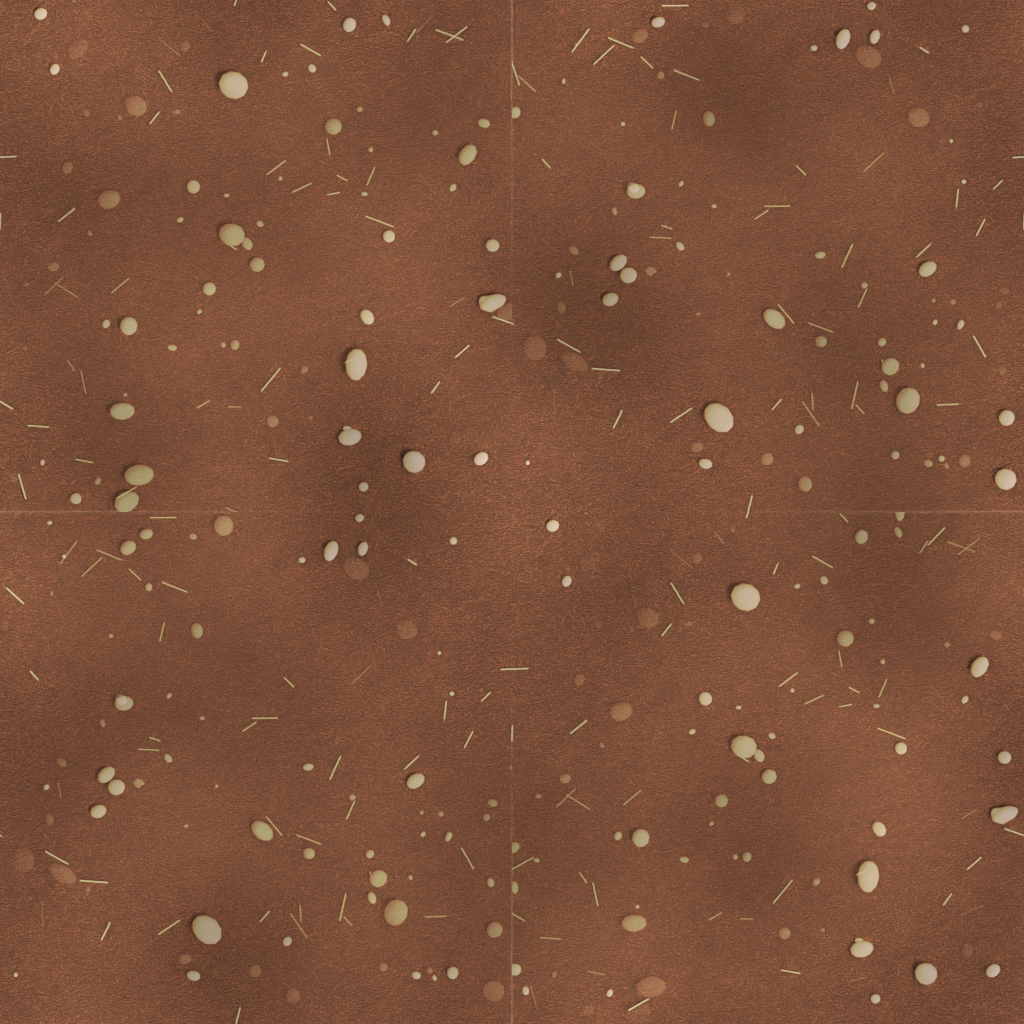
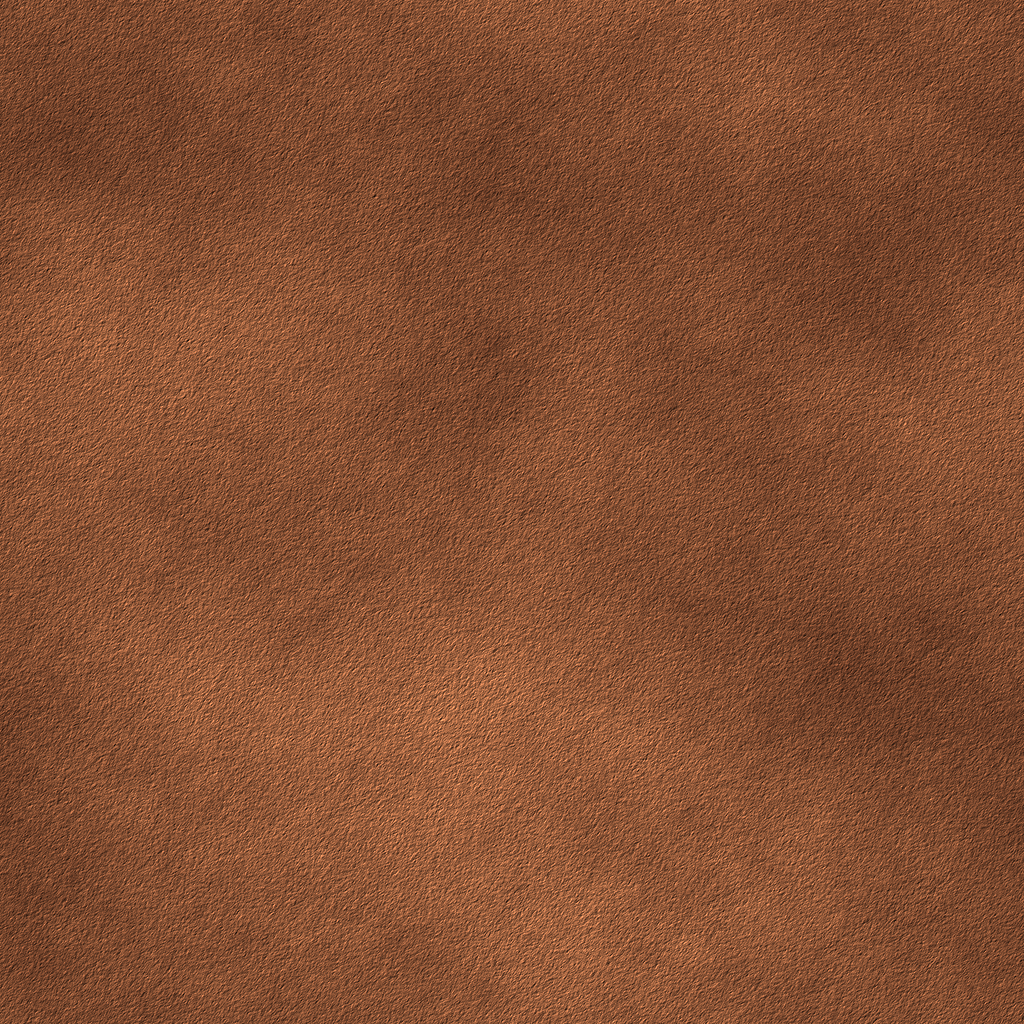
Volante que gira (nodo steer), volante separado en Aventador y F1, cuello oculto en primera persona, sin piedras 3D y tierra pura
Claude-Session: https://claude.ai/code/session_01R8xWcuFiEqsWX9VaB9ebpN

diff --git a/tools/blender/make_textures.py b/tools/blender/make_textures.py
@@ -229,14 +229,14 @@ def tex_asfalto(path, res=1024):
     render(path)
     tileify(path)
 
-def tex_tierra(path, res=1024, red=False):
+def tex_tierra(path, res=1024, red=False, pure=False):
     sc = reset((res, res))
     world_color((0.7, 0.72, 0.8), 0.5)
     area = 3.0
     m, nt = mat("tierra")
     tc = nt.nodes.new("ShaderNodeTexCoord")
     nz1 = noise(nt, 3.0, 8, 0.65, tc.outputs["Object"])
-    nz2 = noise(nt, 140.0 if red else 45.0, 5, 0.6, tc.outputs["Object"])
+    nz2 = noise(nt, 90.0 if red else 45.0, 6, 0.65, tc.outputs["Object"])
     vor = voronoi(nt, 330 if red else 120, tc.outputs["Object"])
     if red: # tierra roja de camino rural: grano fino, ocre y anaranjada
         base = ramp(nt, [(0.0, (0.40, 0.13, 0.045, 1)), (0.5, (0.62, 0.23, 0.085, 1)), (1.0, (0.80, 0.36, 0.14, 1))])
@@ -272,7 +272,7 @@ def tex_tierra(path, res=1024, red=False):
     snt.links.new(sn.outputs["Fac"], sb.inputs["Height"])
     snt.links.new(sb.outputs[0], sp.inputs["Normal"])
     bm = bmesh.new()
-    for i in range(150 if red else 230):
+    for i in range(0 if pure else (150 if red else 230)):
         r = rnd.choice([0.006, 0.008, 0.01, 0.014, 0.02, 0.03] if red else [0.012, 0.016, 0.02, 0.025, 0.03, 0.04, 0.05, 0.07]) * rnd.uniform(0.8, 1.2)
         x, y = rnd.uniform(-area / 2, area / 2), rnd.uniform(-area / 2, area / 2)
         mt = Matrix.Translation((x, y, r * 0.3)) @ Matrix.Rotation(rnd.uniform(0, 6.28), 4, "Z") @ Matrix.Diagonal((r * rnd.uniform(1.0, 1.5), r * rnd.uniform(0.8, 1.2), r * 0.7, 1))
@@ -285,7 +285,7 @@ def tex_tierra(path, res=1024, red=False):
     so = bpy.data.objects.new("stones", me)
     bpy.context.collection.objects.link(so)
     so.data.materials.append(stone_m)
-    if red:  # pajitas secas tiradas y terrones: rayitas claras
+    if red and not pure:  # pajitas secas tiradas y terrones: rayitas claras
         straw_m, stn = mat("paja")
         spp = principled(stn, (0.72, 0.58, 0.26, 1), 0.9)
         bm2 = bmesh.new()
@@ -331,6 +331,42 @@ def tex_tierra(path, res=1024, red=False):
         out = gray + (out - gray) * 0.78
         out = np.clip(out, 0, 255)
         Image.fromarray(out.astype(np.uint8)).save(path)
+
+def _periodic_noise(n, rng, beta, cutoff=None):
+    """ruido repetible (periódico) con espectro 1/f^beta: no puede tener costuras"""
+    f = np.fft.fftfreq(n)[:, None] ** 2 + np.fft.fftfreq(n)[None, :] ** 2
+    f[0, 0] = 1.0
+    amp = 1.0 / (f ** (beta / 2.0))
+    amp[0, 0] = 0.0
+    if cutoff:
+        amp = amp * np.exp(-f / (cutoff ** 2))
+    z = np.fft.ifft2(np.fft.fft2(rng.standard_normal((n, n))) * amp).real
+    z = (z - z.mean()) / (z.std() + 1e-9)
+    return z
+
+def tex_tierra_pura(path, res=1024, seed=11):
+    """tierra de camino rural, SIN piedras ni pajas: grano fino, terroncitos chicos y apenas manchas de humedad. Se hace con ruido periódico (sin costuras)
+    y relieve iluminado de costado; el color medio sale de las fotos de referencia (rojiza, ocre, algo apagada)."""
+    from PIL import Image
+    rng = np.random.default_rng(seed)
+    n = res
+    low = _periodic_noise(n, rng, 2.2)  # manchas muy suaves (humedad / tierra más clara)
+    mid = _periodic_noise(n, rng, 1.3)  # terrones
+    fine = _periodic_noise(n, rng, 0.6)  # grano
+    speck = _periodic_noise(n, rng, 0.0)  # granito
+    h = 0.55 * mid + 0.9 * fine + 0.5 * speck  # relieve
+    # relieve iluminado de costado (luz desde arriba a la izquierda)
+    dx = np.roll(h, -1, axis=1) - np.roll(h, 1, axis=1)
+    dy = np.roll(h, -1, axis=0) - np.roll(h, 1, axis=0)
+    shade = 1.0 + 0.16 * (-dx * 0.7 - dy * 0.7)
+    dark = np.array([104.0, 56.0, 33.0])
+    light = np.array([172.0, 102.0, 62.0])
+    t = np.clip(0.5 + 0.17 * low + 0.10 * mid + 0.07 * fine, 0, 1)[:, :, None]
+    col = dark * (1 - t) + light * t
+    col = col * shade[:, :, None] * (1.0 + 0.05 * speck[:, :, None])
+    gray = col.mean(axis=2, keepdims=True)
+    col = gray + (col - gray) * 0.9
+    Image.fromarray(np.clip(col, 0, 255).astype(np.uint8)).save(path)
 
 def tex_pasto(path, res=1024):
     sc = reset((res, res))
@@ -1070,7 +1106,7 @@ def main():
     jobs = {
         "asfalto": lambda: tex_asfalto(P("asfalto.png")),
         "tierra": lambda: tex_tierra(P("tierra.png")),
-        "tierra_roja": lambda: tex_tierra(P("tierra_roja.png"), 1024, True),
+        "tierra_roja": lambda: tex_tierra_pura(P("tierra_roja.png")),
         "pasto": lambda: tex_pasto(P("pasto.png")),
         "hormigon": lambda: tex_hormigon(P("hormigon.png")),
         "carton": lambda: tex_carton(P("carton.png")),

diff --git a/docs/ESTADO.md b/docs/ESTADO.md
@@ -64,3 +64,7 @@
 - **Autos**: las mallas fijas y opacas se unen por material (`CarVisual._merge_static`: de 175 a 158 dibujos en el CLS, de 138 a 111 en el RX-3; captura idéntica con y sin unión) y el motor / piso / escape del CLS y el piso del RX-3 se esconden hasta que el capó se abre o cae, o el auto va muy inclinado. El F1, el Aventador y la Ranger casi no ganan: casi todo es de piezas móviles, ruedas y transparencias.
 - Pruebas de ayuda nuevas: `tests/world_count.gd`, `tests/car_merge_test.gd`, `tests/car_tree.gd`, `tests/lot_breakdown.gd` y la opción `--arc=<m>` de `play.gd` para largar en cualquier punto del circuito.
 - **Estacionamiento**: lo que más pesa son los 9 autos estacionados (394 mil triángulos, ~140 dibujos cada uno); ganan lo de la unión de mallas. Sin medir en el teléfono.
+
+## Séptima tanda (23/11/2026): volante que gira, tierra pura, sin piedras 3D
+- **Volante (pedido 3 veces)**: la causa era que Godot le saca el sufijo «_wheel» a los nodos al importar y el volante llegaba como `steer`, pero el código buscaba `steer_wheel`: **no giraba en ningún auto**. Ahora se busca `steer`. El Aventador y el McLaren F1 no traen el volante como pieza (viene pegado al interior): se separa por geometría al cargar (`CarVisual._extract_steer`; en el F1 el centro del JSON estaba a ~15 cm del volante real y se recalcula con los materiales «steer»). Comprobado con capturas con el volante a fondo (`--steer=1.0 --cam=0`): el aro gira junto con las manos en Ranger, Aventador y F1. También: en primera persona se esconde el cuello (en el Aventador un globo de piel tapaba toda la pantalla).
+- **Camino de tierra**: sin piedras 3D; textura nueva de **tierra pura** (`tierra_roja.png`, sin piedritas ni pajas, ruido periódico sin costuras, hecha en `tex_tierra_pura`).
